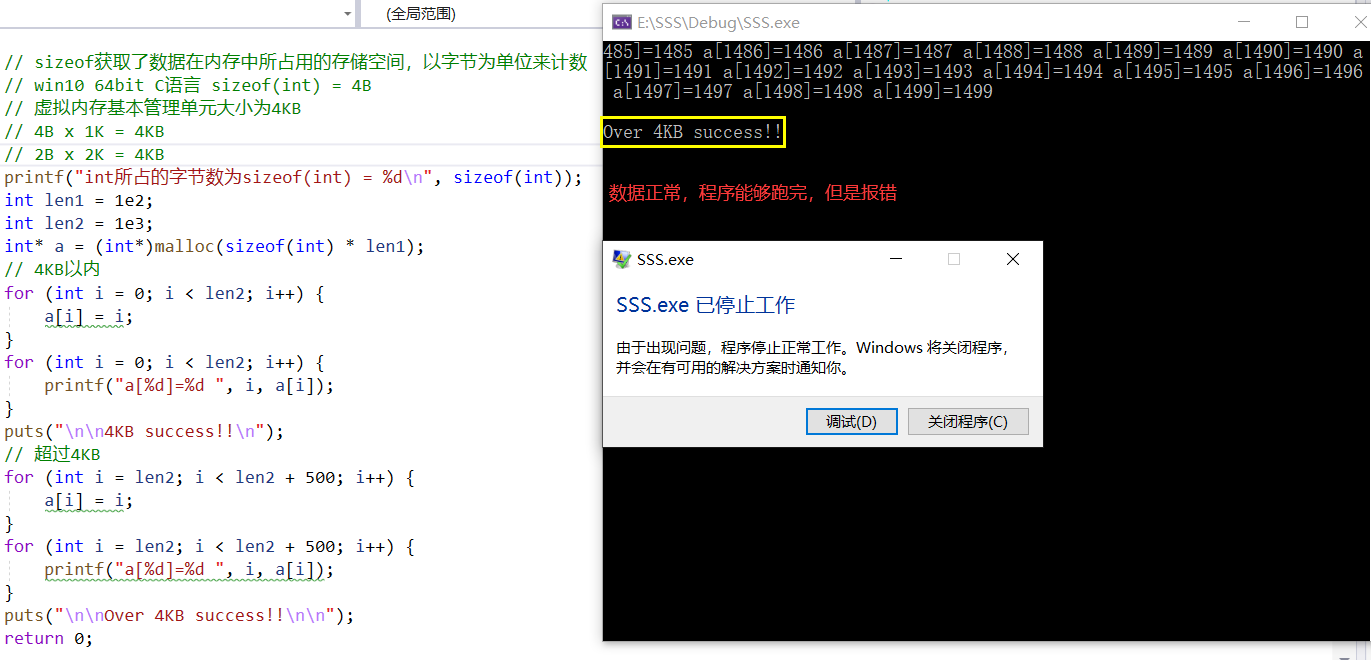
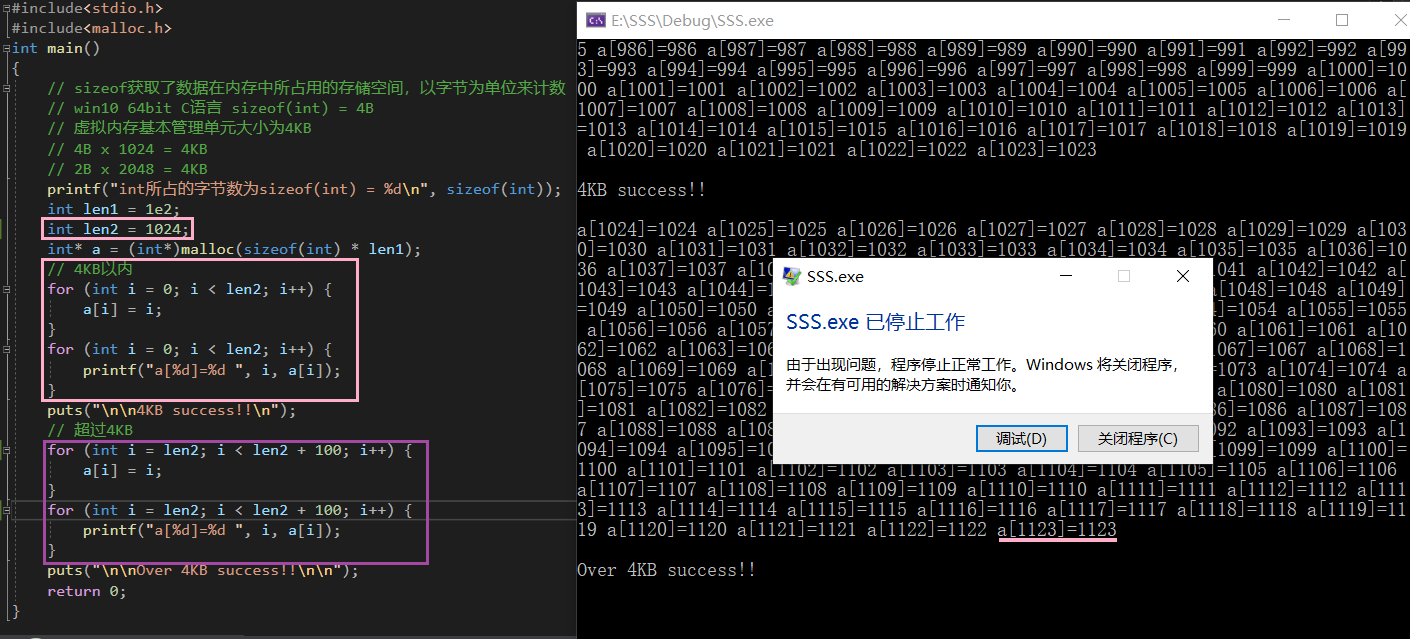
modify 1024

diff --git a/hw-0x05-Memory Management (Easy Version)/README.md b/hw-0x05-Memory Management (Easy Version)/README.md
@@ -14,7 +14,7 @@
 
 - 编写代码
   
-    ```
+    ```cpp
     #include<stdio.h>
     #include<malloc.h>
     int main()
@@ -22,11 +22,11 @@
         // sizeof获取了数据在内存中所占用的存储空间，以字节为单位来计数
         // win10 64bit C语言 sizeof(int) = 4B
         // 虚拟内存基本管理单元大小为4KB
-        // 4B x 1K = 4KB
-        // 2B x 1K = 2KB
+        // 4B x 1024 = 4KB
+        // 2B x 2048 = 4KB
         printf("int所占的字节数为sizeof(int) = %d\n", sizeof(int));
         int len1 = 1e2;
-        int len2 = 1e3;
+        int len2 = 1024;
         int* a = (int*)malloc(sizeof(int) * len1);
         // 4KB以内
         for (int i = 0; i < len2; i++) {
@@ -35,6 +35,7 @@
         for (int i = 0; i < len2; i++) {
             printf("a[%d]=%d ", i, a[i]);
         }
+        puts("\n\n4KB success!!\n");
         // 超过4KB
         for (int i = len2; i < len2 + 100; i++) {
             a[i] = i;
@@ -42,11 +43,12 @@
         for (int i = len2; i < len2 + 100; i++) {
             printf("a[%d]=%d ", i, a[i]);
         }
+        puts("\n\nOver 4KB success!!\n\n");
         return 0;
     }
     ```
 
-- Visual Studio在直接运行的情况下，在4KB内能够跑出结果，不会报错；在超过4KB一部分后，能够跑出结果，但会报错
+- Visual Studio在直接运行的情况下，在4KB内能够跑出结果，不会报错；在超过4KB一部分后，能够跑出结果，但会报错；但超过太多的时候，比如达到了1KB、2KB等以上，就跑不出结果了
 
     <img src="./img/malloc1.png">
 
